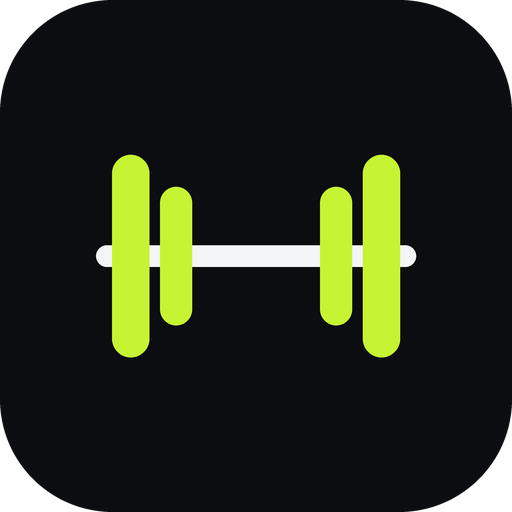
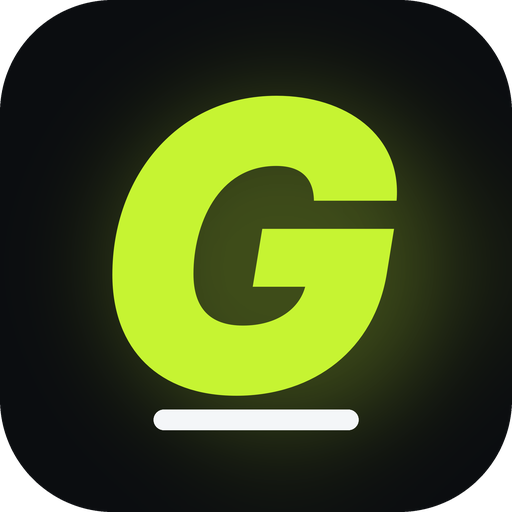
L'app s'appelle maintenant Grit
Nom partout (titre, écran d'accueil iPhone, écran du code, en-tête, images
partagées, notifications) et nouvelle icône « G » vert vif. Les données et
réglages enregistrés ne changent pas.

Claude-Session: https://claude.ai/code/session_01HLSWUPvWYKkPkMktaW69QY

diff --git a/index.html b/index.html
@@ -3,7 +3,7 @@
 <head>
 <meta charset="utf-8">
 <meta name="viewport" content="width=device-width, initial-scale=1, viewport-fit=cover">
-<title>Carnet d'entraînement</title>
+<title>Grit</title>
 <link rel="manifest" href="/manifest.webmanifest">
 <link rel="icon" href="/icons/icon-192.png" type="image/png">
 <link rel="apple-touch-icon" href="/icons/apple-touch-icon.png">
@@ -11,7 +11,7 @@
 <meta name="apple-mobile-web-app-capable" content="yes">
 <meta name="mobile-web-app-capable" content="yes">
 <meta name="apple-mobile-web-app-status-bar-style" content="black-translucent">
-<meta name="apple-mobile-web-app-title" content="Carnet">
+<meta name="apple-mobile-web-app-title" content="Grit">
 <link rel="preconnect" href="https://fonts.googleapis.com">
 <link rel="preconnect" href="https://fonts.gstatic.com" crossorigin>
 <link href="https://fonts.googleapis.com/css2?family=Barlow+Condensed:ital,wght@0,500;0,600;0,700;0,800;1,800&family=Barlow:wght@400;500;600&display=swap" rel="stylesheet">
@@ -295,7 +295,7 @@ body.booting{background:radial-gradient(120% 60% at 50% 0%,rgba(198,244,50,.10),
   background:radial-gradient(120% 60% at 50% 0%,rgba(198,244,50,.13),transparent 60%),var(--bg)}
 .lock-in{width:100%;max-width:320px;display:flex;flex-direction:column;align-items:center;text-align:center}
 .lock-mark{width:64px;height:64px;border-radius:18px;background:var(--accent);display:grid;place-items:center;box-shadow:0 10px 30px -10px var(--accent)}
-.lock-mark svg{width:34px;height:34px;fill:none;stroke:var(--on-accent);stroke-width:2.2;stroke-linecap:round}
+.lock-mark span{font:italic 900 2.6rem/1 "Barlow Condensed",sans-serif;color:var(--on-accent);transform:translateX(-1px)}
 .lock h1{font-size:2.4rem;font-style:italic;margin-top:14px}
 .lock-sub{margin:2px 0 22px;color:var(--muted)}
 .pin-dots{display:flex;gap:14px;height:18px}
@@ -541,7 +541,7 @@ nav.bottom-nav{display:none}
   :root{padding-top:0;padding-bottom:0}
   .wrap{padding:calc(10px + env(safe-area-inset-top,0px)) 14px calc(92px + env(safe-area-inset-bottom,0px))}
   header.top{margin-bottom:6px}
-  header.top h1{font-size:1.75rem}
+  header.top h1{font-size:2.4rem;line-height:1}
   .status{font-size:.78rem}
   .phase{padding:8px 12px;gap:2px 12px;font-size:.85rem;margin:6px 0 10px}
   .phase b{font-size:1.1rem}
@@ -603,8 +603,8 @@ nav.bottom-nav{display:none}
 <body class="booting">
 <div id="lock" class="lock" hidden role="dialog" aria-modal="true" aria-labelledby="lockTitle">
   <div class="lock-in">
-    <div class="lock-mark" aria-hidden="true"><svg viewBox="0 0 24 24"><path d="M3 10v4M21 10v4M6 7v10M18 7v10M6 12h12"/></svg></div>
-    <h1 id="lockTitle">Carnet</h1>
+    <div class="lock-mark" aria-hidden="true"><span>G</span></div>
+    <h1 id="lockTitle">Grit</h1>
     <p class="lock-sub">Entre ton code</p>
     <div class="pin-dots" id="pinDots" aria-live="polite"><i></i><i></i><i></i><i></i><i></i><i></i></div>
     <p class="lock-msg" id="lockMsg" role="status"></p>
@@ -626,7 +626,7 @@ nav.bottom-nav{display:none}
 <div class="wrap">
   <header class="top">
     <div>
-      <h1>Carnet <em>d'entraînement</em></h1>
+      <h1>Grit<em>.</em></h1>
       <div class="status" id="status">Chargement…</div>
     </div>
   </header>
@@ -2340,14 +2340,14 @@ function fillMerge(cur, inc){
 }
 $("#xferApply").onclick=async()=>{
   let o; try{ o=JSON.parse($("#xfer").value); }catch(e){ $("#xferMsg").textContent="Contenu invalide : colle l'export complet."; return; }
-  if(!o || typeof o.days!=="object"){ $("#xferMsg").textContent="Ce contenu ne ressemble pas à un export du carnet."; return; }
+  if(!o || typeof o.days!=="object"){ $("#xferMsg").textContent="Ce contenu ne ressemble pas à un export de Grit."; return; }
   const fill = o.mode==="fill";
   if(fill && typeof pullRemote==="function"){ try{ $("#xferMsg").textContent="Lecture des journées existantes…"; await pullRemote(false); }catch(e){ $("#xferMsg").textContent="Impossible de lire tes journées actuelles : vérifie ta connexion et réessaie."; return; } }
   let list=Object.values(o.days).filter(d=>d&&/^\d{4}-\d{2}-\d{2}$/.test(d.date)).map(d=>normalize(d));
   let existing=0;
   if(fill){ list = list.map(d=>{ if(days[d.date]) existing++; return normalize(fillMerge(days[d.date]?clone(days[d.date]):null, d)); }); }
   const msg = fill
-    ? `Compléter ${list.length} journées (${existing} existent déjà dans le carnet : leurs cases remplies ne seront pas modifiées, seules les cases vides seront complétées) ?`
+    ? `Compléter ${list.length} journées (${existing} existent déjà dans Grit : leurs cases remplies ne seront pas modifiées, seules les cases vides seront complétées) ?`
     : `Importer ${list.length} journées${o.settings?" et tes réglages (programme, plans)":""} ? Les journées aux mêmes dates seront remplacées.`;
   if(!confirm(msg)) return;
   const btn=$("#xferApply"); btn.disabled=true;
@@ -2932,7 +2932,7 @@ async function recapCanvas(){
   const lines=D.ws.map(x=>`${DOW[parseIso(x.date).getDay()]} · ${x.title}${x.run?.km?` · ${fmtNum(x.run.km,1)} km`:""}`);
   (lines.length?lines:["Aucune séance notée"]).slice(0,4).forEach(l=>{ X.fillText(l,72,y); y+=44; });
   if(st){ X.fillStyle=col("--gold"); X.font='800 40px "Barlow Condensed", sans-serif'; X.fillText(`🔥 ${st} SEMAINE${st>1?"S":""} COMPLÈTE${st>1?"S":""} D'AFFILÉE`,72,1300); }
-  X.fillStyle="#8D97A3"; X.font='600 26px Barlow, sans-serif'; X.textAlign="right"; X.fillText("Carnet d'entraînement",w-70,1300);
+  X.fillStyle="#8D97A3"; X.font='600 26px Barlow, sans-serif'; X.textAlign="right"; X.fillText("GRIT",w-70,1300);
   return c;
 }
 $("#recapShare").onclick=async()=>{
@@ -2979,14 +2979,14 @@ async function renderNotif(){
   const st=$("#notifStatus"), act=$("#notifActions"), pr=$("#notifPrefs");
   const ios=/iPhone|iPad|iPod/.test(navigator.userAgent);
   if(!pushSupported()){
-    st.innerHTML = ios && !isStandalone() ? `<span style="color:var(--gold)">● Ouvre le carnet depuis son icône</span>` : `<span style="color:var(--muted)">○ Non disponible sur ce navigateur</span>`;
+    st.innerHTML = ios && !isStandalone() ? `<span style="color:var(--gold)">● Ouvre Grit depuis son icône</span>` : `<span style="color:var(--muted)">○ Non disponible sur ce navigateur</span>`;
     act.innerHTML = ""; pr.hidden=true;
     $("#notifHint").innerHTML = ios ? "Sur iPhone, les notifications ne marchent que dans l'app ajoutée à l'écran d'accueil (Safari → Partager → Sur l'écran d'accueil), avec iOS 16.4 ou plus." : "Ce navigateur ne gère pas les notifications web.";
     return;
   }
   try{ pushInfo = await api("GET","push"); }catch(e){ st.innerHTML=`<span style="color:var(--muted)">○ Serveur injoignable pour l'instant</span>`; act.innerHTML=""; return; }
   const sub = await mySub(), perm = Notification.permission;
-  if(perm==="denied"){ st.innerHTML=`<span style="color:var(--warn)">● Bloquées</span> · réautorise-les dans Réglages → Notifications → Carnet`; act.innerHTML=""; pr.hidden=true; return; }
+  if(perm==="denied"){ st.innerHTML=`<span style="color:var(--warn)">● Bloquées</span> · réautorise-les dans Réglages → Notifications → Grit`; act.innerHTML=""; pr.hidden=true; return; }
   if(sub){
     st.innerHTML=`<span style="color:var(--good)">● Activées</span> sur cet appareil`;
     act.innerHTML=`<button type="button" class="btn ghost small" id="notifTest">Envoyer un test</button><button type="button" class="btn danger" id="notifOff">Désactiver ici</button><span class="save-msg" id="notifMsg"></span>`;
@@ -3169,7 +3169,7 @@ async function shareCanvas(date, x){
   const st=streak(); X.textAlign="left";
   if(st){ X.fillStyle=css("--gold")||"#FFC93D"; X.font='800 46px "Barlow Condensed", sans-serif'; X.fillText(`🔥 ${st} SEMAINE${st>1?"S":""} D'AFFILÉE`, L, h-130); }
   X.fillStyle="#8D97A3"; X.font='700 32px Barlow, sans-serif'; X.fillText(activeProgram().name.toUpperCase(), L, h-80);
-  X.textAlign="right"; X.fillStyle="#F3F5F7"; X.font='italic 800 44px "Barlow Condensed", sans-serif'; X.fillText("CARNET", w-L, h-80);
+  X.textAlign="right"; X.fillStyle="#F3F5F7"; X.font='italic 800 44px "Barlow Condensed", sans-serif'; X.fillText("GRIT", w-L, h-80);
   return c;
 }
 $("#b7Share").onclick=async()=>{

diff --git a/api/push.js b/api/push.js
@@ -86,7 +86,7 @@ export function dueReminders({ prefs, sent, now, day, goals, pauses, settings })
     const pl = id === "session" ? plannedToday(settings || {}, now.date, now.dow) : null;
     if (id === "session" && pl && !isPaused(pauses, now.date)) { // programme en pause : pas de rappel de séance
       const done = (day?.sessions || []).some((s) => pl.keys.includes(s.b7));
-      if (!done) msg = { title: `💪 ${pl.label} aujourd'hui`, body: pl.kind === "run" ? "Ta sortie du jour selon Kiprun. Note-la dans le carnet en rentrant." : "Ta séance de renfo t'attend. Le minuteur de repos est prêt.", tag: "session" };
+      if (!done) msg = { title: `💪 ${pl.label} aujourd'hui`, body: pl.kind === "run" ? "Ta sortie du jour selon Kiprun. Note-la dans Grit en rentrant." : "Ta séance de renfo t'attend. Le minuteur de repos est prêt.", tag: "session" };
     }
     if (id === "recap" && now.dow === 0) msg = { title: "📊 Ton récap de la semaine", body: "Séances, km, poids, sommeil : tout est prêt, avec l'image pour ton coach.", tag: "recap", url: "/?tab=sem" };
     out.push({ id, key, msg }); // msg null = condition déjà remplie : on marque quand même pour ne pas revérifier
@@ -95,7 +95,7 @@ export function dueReminders({ prefs, sent, now, day, goals, pauses, settings })
 }
 
 async function sendAll(st, payload) {
-  webpush.setVapidDetails("mailto:carnet@example.com", st.vapid.publicKey, st.vapid.privateKey);
+  webpush.setVapidDetails("mailto:grit@example.com", st.vapid.publicKey, st.vapid.privateKey);
   let ok = 0; const keep = [];
   for (const sub of st.subs) {
     try { await webpush.sendNotification(sub, JSON.stringify(payload), { TTL: 3600, urgency: "normal" }); ok++; keep.push(sub); }
@@ -152,7 +152,7 @@ export default async function handler(req, res) {
       }
       if (b.action === "test") {
         if (!st.subs.length) return res.status(400).json({ error: "Aucun appareil abonné." });
-        const r = await sendAll(st, { title: "✅ Notifications activées", body: "Le carnet pourra te rappeler la pesée, l'eau et tes séances.", tag: "test" });
+        const r = await sendAll(st, { title: "✅ Notifications activées", body: "Grit pourra te rappeler la pesée, l'eau et tes séances.", tag: "test" });
         if (r.changed) await saveState(st);
         return res.status(200).json({ ok: true, sent: r.ok });
       }

diff --git a/sw.js b/sw.js
@@ -1,6 +1,6 @@
 // Service worker : l'app s'ouvre même sans réseau. Les données passent toujours par /api (jamais mises en cache ici) :
 // hors connexion, le carnet garde tes saisies sur l'appareil et les envoie au retour du réseau.
-const VERSION = "carnet-v21";
+const VERSION = "grit-v22";
 const SHELL = ["/", "/manifest.webmanifest", "/icons/icon-192.png", "/icons/icon-512.png", "/icons/apple-touch-icon.png"];
 
 self.addEventListener("install", (e) => {
@@ -26,8 +26,8 @@ self.addEventListener("fetch", (e) => {
 // Notifications push (rappels pesée, eau, séance, récap)
 self.addEventListener("push", (e) => {
   let d = {};
-  try { d = e.data ? e.data.json() : {}; } catch (_) { d = { title: "Carnet", body: e.data ? e.data.text() : "" }; }
-  e.waitUntil(self.registration.showNotification(d.title || "Carnet", {
+  try { d = e.data ? e.data.json() : {}; } catch (_) { d = { title: "Grit", body: e.data ? e.data.text() : "" }; }
+  e.waitUntil(self.registration.showNotification(d.title || "Grit", {
     body: d.body || "", tag: d.tag || "carnet", renotify: true,
     icon: "/icons/icon-192.png", badge: "/icons/icon-192.png", data: { url: d.url || "/" },
   }));
